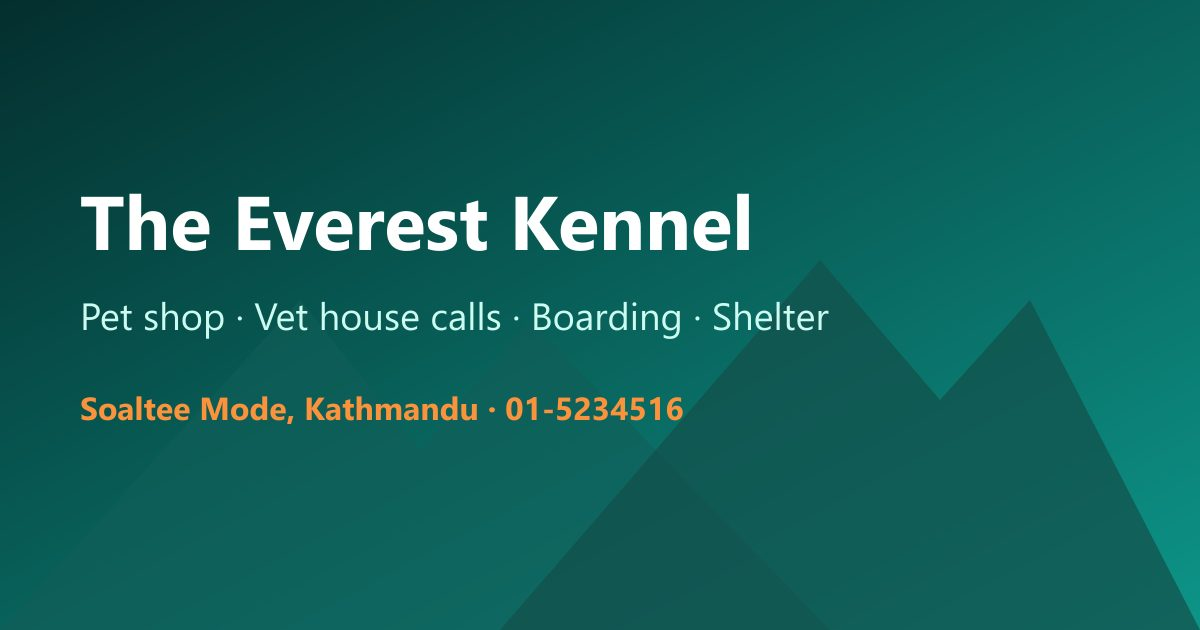
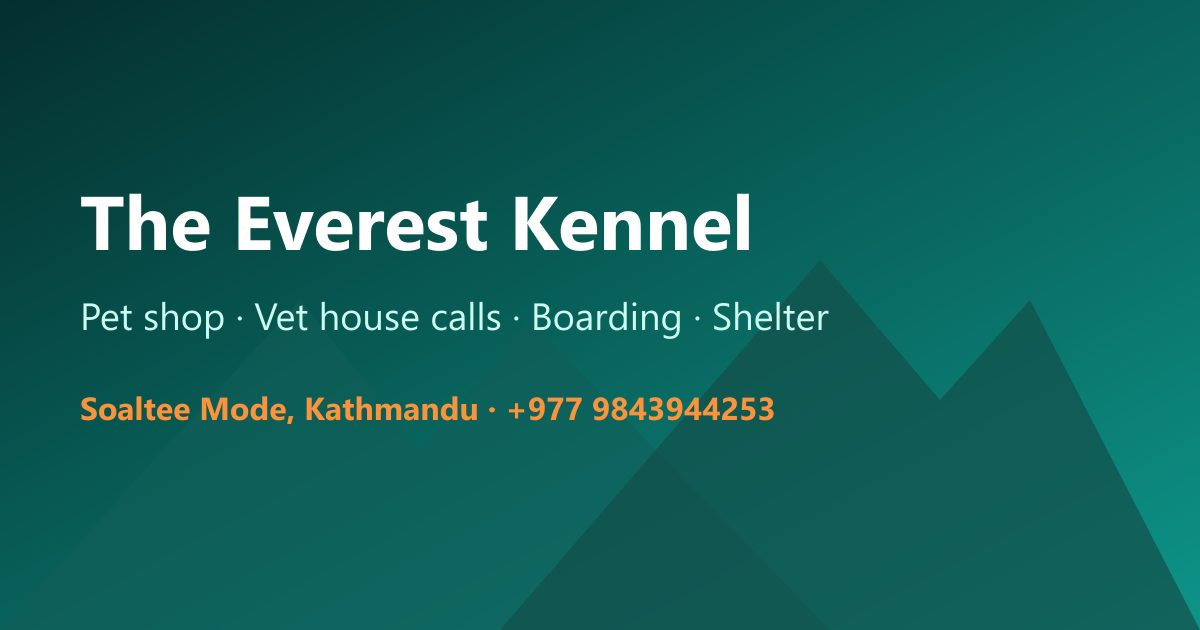
Use Aakriti as owner/admin and +977 9843944253 as the business phone
- BUSINESS.owner is now Aakriti; the landline constant is replaced by one
  business phone (+977 9843944253) used for call links, SMS texts,
  structured data and policies
- WhatsApp number 9779843944253 in .env.example
- Seed admin is Aakriti with phone 9843944253; seed testimonial/FAQ updated
- Rate-limit error page uses an SVG icon instead of an emoji

Changed region(s): [[0.4008, 0.6032, 0.6475, 0.6937]]

diff --git a/prisma/seed.ts b/prisma/seed.ts
@@ -226,9 +226,9 @@ async function seedAdmin() {
   const password = process.env.ADMIN_PASSWORD || randomBytes(9).toString('base64url');
   await prisma.user.create({
     data: {
-      name: 'Rajkumar Panta',
+      name: 'Aakriti',
       email,
-      phone: '9800000000',
+      phone: '9843944253',
       role: 'ADMIN',
       passwordHash: await argon2.hash(password, { type: argon2.argon2id }),
       phoneVerifiedAt: new Date(),
@@ -237,7 +237,7 @@ async function seedAdmin() {
   console.log('\n========================================');
   console.log(' Admin login (shown once, save it now):');
   console.log(`   email:    ${email}`);
-  console.log(`   phone:    9800000000`);
+  console.log(`   phone:    9843944253`);
   console.log(`   password: ${password}`);
   console.log('========================================\n');
 }
@@ -377,7 +377,7 @@ async function seedDemo() {
 
   await prisma.testimonial.createMany({
     data: [
-      { name: 'Sujata K., Kalanki', content: 'Our Labrador puppy came healthy with all vaccination records. Rajkumar ji still calls to check on her!', rating: 5, sortOrder: 1 },
+      { name: 'Sujata K., Kalanki', content: 'Our Labrador puppy came healthy with all vaccination records. Aakriti ji still calls to check on her!', rating: 5, sortOrder: 1 },
       { name: 'Anil S., Lalitpur', content: 'The vet house call saved us a stressful trip with our old dog. Very professional and kind.', rating: 5, sortOrder: 2 },
       { name: 'Pratiksha T., Baneshwor', content: 'We boarded Bruno during Dashain. Daily photos and he came back happy. Highly recommended.', rating: 5, sortOrder: 3 },
       { name: 'Ramesh B., Soaltee Mode', content: 'Good dog food prices and quick delivery. Cash on delivery is convenient.', rating: 4, sortOrder: 4 },
@@ -386,7 +386,7 @@ async function seedDemo() {
 
   await prisma.faq.createMany({
     data: [
-      { group: 'general', question: 'Where is The Everest Kennel?', answer: 'We are at Soaltee Mode, Kathmandu. Call 01-5234516 for directions.', sortOrder: 1 },
+      { group: 'general', question: 'Where is The Everest Kennel?', answer: 'We are at Soaltee Mode, Kathmandu. Call +977 9843944253 for directions.', sortOrder: 1 },
       { group: 'general', question: 'What are your opening hours?', answer: 'Sunday to Friday 9:00 to 19:00 and Saturday 10:00 to 17:00.', sortOrder: 2 },
       { group: 'shop', question: 'Do you deliver outside Kathmandu?', answer: 'Yes. We deliver pet food and accessories across Nepal. Charges depend on weight and are shown at checkout.', sortOrder: 1 },
       { group: 'shop', question: 'Which payment methods do you accept?', answer: 'Cash on delivery, eSewa and Khalti.', sortOrder: 2 },

diff --git a/src/lib/notify.ts b/src/lib/notify.ts
@@ -15,7 +15,7 @@ export function notifyNewBooking(booking: Booking & { service: Service }) {
     await Promise.all([
       sendSms(
         booking.contactPhone,
-        `${BUSINESS.name}: booking ${booking.reference} for ${booking.service.name} on ${when} received. We will confirm shortly. Call ${BUSINESS.landlineDisplay}.`,
+        `${BUSINESS.name}: booking ${booking.reference} for ${booking.service.name} on ${when} received. We will confirm shortly. Call ${BUSINESS.phoneDisplay}.`,
       ),
       sendMail({
         to: env.ADMIN_NOTIFY_EMAIL,
@@ -41,7 +41,7 @@ export function notifyBookingStatus(booking: Booking & { service: Service }) {
     const when = formatDateTime(booking.startAt);
     const text: Record<string, string> = {
       CONFIRMED: `Your ${booking.service.name} booking ${booking.reference} on ${when} is confirmed.`,
-      CANCELLED: `Your booking ${booking.reference} on ${when} has been cancelled. Call ${BUSINESS.landlineDisplay} for help.`,
+      CANCELLED: `Your booking ${booking.reference} on ${when} has been cancelled. Call ${BUSINESS.phoneDisplay} for help.`,
     };
     const msg = text[booking.status];
     if (msg) await sendSms(booking.contactPhone, `${BUSINESS.name}: ${msg}`);

diff --git a/src/modules/pages/pages.controller.ts b/src/modules/pages/pages.controller.ts
@@ -41,7 +41,7 @@ export async function home(_req: Request, res: Response) {
 export function about(_req: Request, res: Response) {
   setSeo(res, {
     title: 'About The Everest Kennel | Pet Shop at Soaltee Mode',
-    description: 'Meet The Everest Kennel, a pet shop, kennel and animal care shelter run by Rajkumar Panta at Soaltee Mode, Kathmandu.',
+    description: 'Meet The Everest Kennel, a pet shop, kennel and animal care shelter run by Aakriti at Soaltee Mode, Kathmandu.',
     canonical: '/about',
   });
   res.render('pages/about');
@@ -66,7 +66,7 @@ export async function faq(_req: Request, res: Response) {
 export function contactPage(req: Request, res: Response) {
   setSeo(res, {
     title: 'Contact The Everest Kennel | Soaltee Mode, Kathmandu',
-    description: 'Call 01-5234516, chat on WhatsApp or visit our pet shop at Soaltee Mode, Kathmandu. Opening hours and map.',
+    description: 'Call +977 9843944253, chat on WhatsApp or visit our pet shop at Soaltee Mode, Kathmandu. Opening hours and map.',
     canonical: '/contact',
   });
   res.render('pages/contact', { subject: typeof req.query.subject === 'string' ? req.query.subject.slice(0, 120) : '' });

diff --git a/src/jobs/vaccination-reminders.ts b/src/jobs/vaccination-reminders.ts
@@ -21,7 +21,7 @@ export async function sendVaccinationReminders(today = nptDate()) {
     for (const r of records) {
       const owner = r.pet.user;
       const when = days === 1 ? 'tomorrow' : `on ${formatDay(r.nextDueOn)}`;
-      const text = `${BUSINESS.name}: ${r.pet.name}'s ${r.vaccine} vaccine is due ${when}. Book a home visit: ${env.APP_URL}/book?service=VACCINATION or call ${BUSINESS.landlineDisplay}.`;
+      const text = `${BUSINESS.name}: ${r.pet.name}'s ${r.vaccine} vaccine is due ${when}. Book a home visit: ${env.APP_URL}/book?service=VACCINATION or call ${BUSINESS.phoneDisplay}.`;
       await sendSms(owner.phone, text);
       if (owner.email) {
         await sendMail({ to: owner.email, subject: `${r.pet.name}'s vaccination is due ${when}`, text: `Hello ${owner.name},\n\n${text}\n` });

diff --git a/src/middleware/locals.ts b/src/middleware/locals.ts
@@ -84,7 +84,7 @@ export const locals: RequestHandler = async (req, res, next) => {
     oldValue: (name: string, fallback: unknown = '') => (old[name] ?? fallback) as string,
     whatsappLink: (message = `Hello ${BUSINESS.name}, I have a question.`) =>
       `https://wa.me/${whatsappNumber}?text=${encodeURIComponent(message)}`,
-    telLink: (num: string = BUSINESS.landline) => `tel:${num.replace(/[^\d+]/g, '')}`,
+    telLink: (num: string = BUSINESS.phone) => `tel:${num.replace(/[^\d+]/g, '')}`,
     formTs: () => Date.now().toString(36),
     isActive: (prefix: string) => (prefix === '/' ? req.path === '/' : req.path.startsWith(prefix)),
   });

diff --git a/src/config/constants.ts b/src/config/constants.ts
@@ -1,9 +1,9 @@
 export const BUSINESS = {
   name: 'The Everest Kennel',
   tagline: 'Pets, Care and Kennel Services in Kathmandu',
-  owner: 'Rajkumar Panta',
-  landline: '+977-1-5234516',
-  landlineDisplay: '01-5234516',
+  owner: 'Aakriti',
+  phone: '+977-9843944253',
+  phoneDisplay: '+977 9843944253',
   address: 'Soaltee Mode, Kathmandu, Nepal',
   street: 'Soaltee Mode',
   city: 'Kathmandu',

diff --git a/README.md b/README.md
@@ -37,7 +37,7 @@ The local `.env` is already configured, and the database is migrated and seeded 
 
 | | |
 |---|---|
-| Admin | `admin@everestkennel.local` (or phone `9800000000`), password `EverestAdmin#2026` |
+| Admin | `admin@everestkennel.local` (or phone `9843944253`), password `EverestAdmin#2026` |
 | Demo vet | phone `9800000001` (random password; reset it in Admin > Users if needed) |
 
 Change the admin password before using real data. A fresh `npm run db:seed` on an empty database generates a random password, or uses `ADMIN_PASSWORD` if set.
